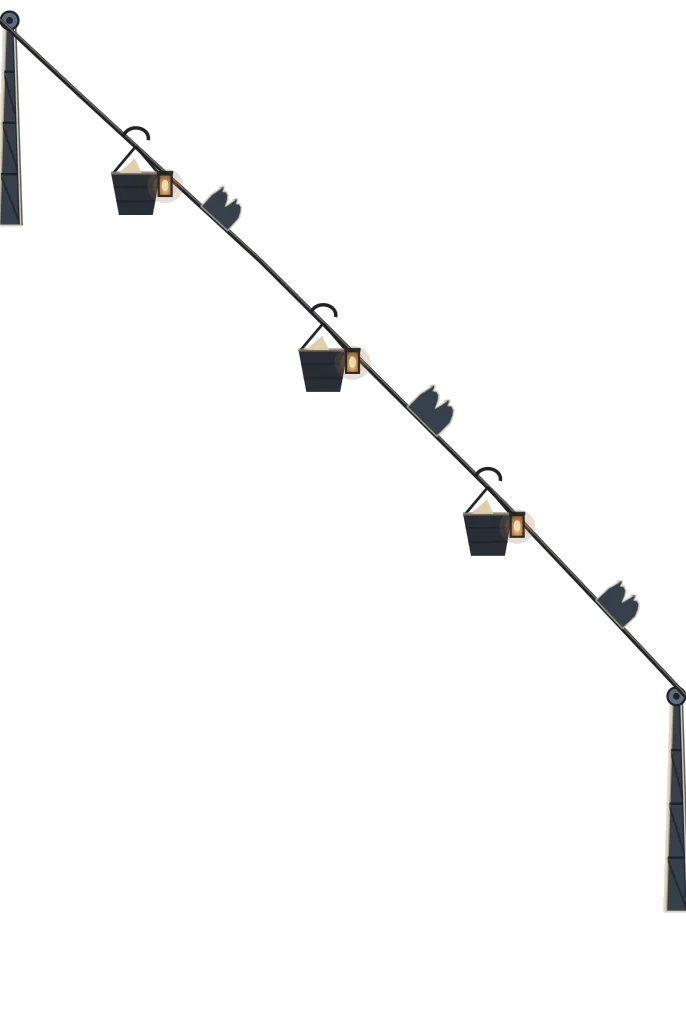
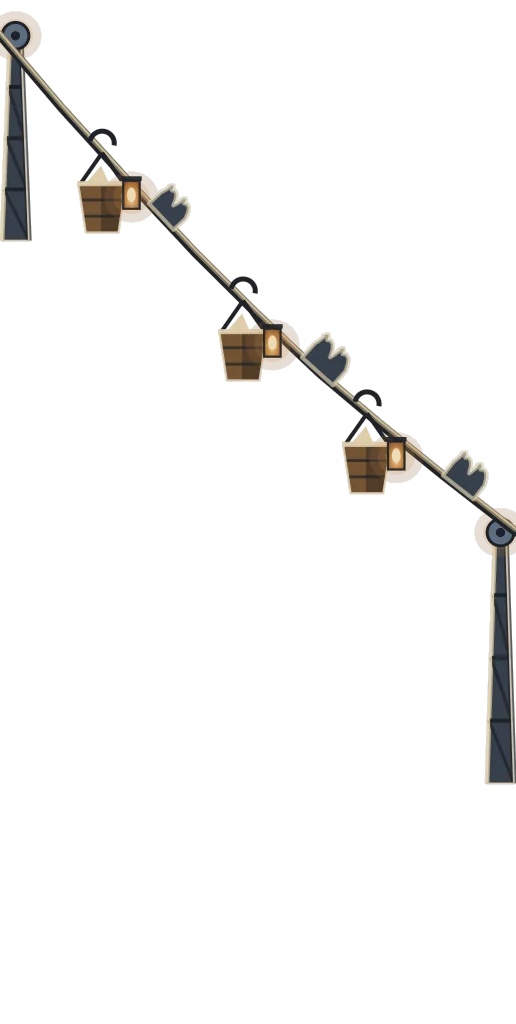
feat(labs/storybook): repaint the dispatch line and the roosts at the visibility-derived sizes
The board capture re-derived the right page around whether the cable can be
SEEN, and the two pieces it moved are now authored to the sub-rects the mesh
actually samples. The tower and the reader's basket are untouched — byte
identical bakes.

ch3-dispatch-line 686x1024 -> 516x1024. Same sheet, ~96% cut away, but every
weight is now quoted as a FRACTION OF THE PANEL rather than in source px,
because the panel projects into roughly 139x253 screen px and r4a's 4.6px rope
landed there at 1.2 screen px and read as a scratch. The rope is a dark core
under a LIT strand (on a night page the ink core is invisible and the highlight
is the whole read), the masts and their pulleys are wide enough to end the wire
on something, and the baskets and their lanterns are up ~30% so the three lit
panniers are legible at the reading camera. The new 9-node polyline is the
content.ts one, so the painted wire and the wire the reader's basket rides stay
one curve.

ch3-terrace 705x1024 -> 1024x991 — a re-proportion, not a resize: the roosts had
to come DOWN so the cable could fly over them, and the same numbers widened the
radial extent past the chain. A low sprawl is what this piece was always
described as; the r4a sheet made a ziggurat of it because it was taller than it
was wide.

And it printed a spreadsheet: every house the same frontage, every bay the same
pitch, nearly every cell lit. Three seeded moves fix that. Houses and their
[…]

Changed region(s): [[0.0, 0.0, 1.0, 0.9062]]

diff --git a/docs/superpowers/art-call-sheet.md b/docs/superpowers/art-call-sheet.md
@@ -269,9 +269,9 @@ principle) before any of these land.
 | `ch3-keep-winch` | `ch3-keep-winch-iris` | One raven-shutter blade (repeats around the loft rim) — slate shutter, amber roost-glow behind | ≈0.5:1 | STAND | placeholder |
 | `ch3-keep-winch` | `ch3-keep-winch-counterweight` | Slate counterweight block on a cable, dropping down the keep flank | ≈1:1 | STAND | placeholder |
 | `ch3-tower` | `ch3-tower` | THE CROOKED COLOSSUS — ONE continuous portrait painting of a 4-storey crooked rookery tower on the LEFT page, sliced by the mesh into per-storey v-bands AND per-storey u sub-ranges (the trapezoid mapping). UNEVEN storeys: tall buttressed foot (3 monumental blazing gate arches), squat gantry belt kicked outboard (jutting timber platforms with lamps), tall belfry storey pulled back inboard (4-bay arcade), short leaning crown (dense dovecote ranks under a crenellated skyline with two glazed lantern posts). Die-cut: crown skyline, a linked raven rank on the parapet, ravens wheeling in the sky it leaves, and the GANTRY ARM + first stretch of dispatch cable leaving toward the gutter. u = 0 is the inboard (gutter) edge and the lit flank; near-black slate stone, blazing amber portals, hairline raw-paper rim | 295:1024 ≈ 0.288:1 (radial extent 0.301 : chain 1.045) | STAGED CHAIN (trapezoid, merged mesh, v-banded per storey) | **art** (procedural) |
-| `ch3-dispatch-line` | `ch3-dispatch-line` | THE DIE-CUT CABLE PANEL — a sheet that has to read as a WIRE IN THE AIR, so ~97% of its alpha is cut away. Carries ONLY: the sagging cable polyline (the same 9 (u,v) nodes content.ts hands the solver), a trussed die-cut mast + pulley at each end, three hanging wicker letter-baskets with lit amber lanterns at arc s = 0.20/0.47/0.72, and three short raven ranks rotated onto the wire's own slope. Renders at alphaTest 0.1 over a black page, so every glow is a BOUNDED stepped bloom (a soft halo prints as a grey disc) and the wire ravens are slate, not ink | 686:1024 ≈ 0.670:1 (w 0.315 : chain 0.47) | STAGED CHAIN (2 stages, die-cut alpha; v split at 0.5745) | **art** (procedural) |
+| `ch3-dispatch-line` | `ch3-dispatch-line` | THE DIE-CUT CABLE PANEL — a sheet that has to read as a WIRE IN THE AIR, so ~97% of its alpha is cut away. Carries ONLY: the sagging cable polyline (the same 9 (u,v) nodes content.ts hands the solver), a trussed die-cut mast + pulley at each end, three hanging wicker letter-baskets with lit amber lanterns at arc s = 0.20/0.47/0.72, and three short raven ranks rotated onto the wire's own slope. Renders at alphaTest 0.1 over a black page, so every glow is a BOUNDED stepped bloom (a soft halo prints as a grey disc) and the wire ravens are slate, not ink. ROUND 4b: taller panel, shallower sag (v 0.965→0.48) so the wire clears the roofline over its whole run, and every weight quoted as a FRACTION of the panel — the board capture projects this sheet into ~139x253 screen px, where r4a's 4.6px rope landed at 1.2 screen px and read as a scratch | 516:1024 ≈ 0.504:1 (w 0.315 : chain 0.625) | STAGED CHAIN (2 stages, die-cut alpha; v split at 0.5760) | **art** (procedural) |
 | `ch3-dispatch-line` | `ch3-dispatch-line-basket` | THE READER'S BASKET — the in-plane rider pushed down the wire (drive channel `~send`, release HOLDS). The quad hangs it BELOW the cable, so the hook and yoke sit at the very TOP edge of the image and the pannier fills the rest: warm brown wicker (the chapter's one basketwork material), two cream envelopes poking out, a lit lantern slung off the yoke | 1:1 square, drawn to fill the cell | RIDER (in-plane quad) | **art** (procedural) |
-| `ch3-terrace` | `ch3-terrace` | THE TERRACED ROOSTS — the RIGHT page's answer to a colossus and the piece that kills the mirror by being its OPPOSITE: a low, wide, five-storey sprawl of roof after roof stepping back. Grammar is strictly horizontal — party pilasters dividing each terrace into houses, TWO long ranks of small square-headed warm roost windows per storey (never arches), dormer roost-boxes on every roof plane, deep eave shadow + lit ridge on every fold, ravens landing on the ridge below, a lamplit road with lantern posts entering at the foot (inherited from the retired yard wall), and a LOW landing mast at the outboard end where the cable comes down. Lit chance falls as it climbs — that is the aerial recession | 705:1024 ≈ 0.689:1 (radial extent 0.31 : chain 0.45) | STAGED CHAIN (trapezoid, merged mesh, v-banded per storey) | **art** (procedural) |
+| `ch3-terrace` | `ch3-terrace` | THE TERRACED ROOSTS — the RIGHT page's answer to a colossus and the piece that kills the mirror by being its OPPOSITE: a low, wide, five-storey sprawl of roof after roof stepping back. Grammar is strictly horizontal — party pilasters dividing each terrace into houses, TWO long ranks of small square-headed warm roost windows per storey (never arches), dormer roost-boxes on every roof plane, deep eave shadow + lit ridge on every fold, ravens landing on the ridge below, a lamplit road with lantern posts entering at the foot (inherited from the retired yard wall), and a LOW landing mast at the outboard end where the cable comes down. Lit chance falls as it climbs — that is the aerial recession. ROUND 4b re-proportions it WIDER THAN TALL (the chain shortened so the cable could fly over it, which is what a "low sprawl" needed all along) and breaks the r4a grid: houses and their window bays are UNEVEN seeded splits each sitting a little high or low on its own string course, two storeys carry a GABLE END with a hoist beam and a lit loft door, two carry a JETTIED upper floor on corbels, chimney stacks stand off every ridge, and a house may be SHUTTERED outright so dark cells clump among the warm ones | 1024:991 ≈ 1.033:1 (radial extent 0.31 : chain 0.30) | STAGED CHAIN (trapezoid, merged mesh, v-banded per storey) | **art** (procedural) |
 | `ch3-fringe` | `ch3-fringe` | Fore-edge dispatch-yard wall — the rookery's outer yard wall in slate, a raven rank along its top, and the ROAD NOTCH where the post-road passes through | ≈7.1:1 low strip | FACE | procedural |
 | `ch3-dispatch` | `ch3-dispatch-dial` | The reader-spun SORTING DESK dial (volvelle, riveted flat into the right-page yard, mirroring the winch) — a brass wheel of 8 sectors: raven sigils at staggered headings, route glyphs, a tally band | 1:1 square (disc, radius 0.11 → canvas 0.22×0.22) | DISC | procedural |
 | `ch3-dispatch` | `ch3-dispatch-card` | The static WINDOW CARD over the dial — the sorting-office faceplate: pigeonhole shelves around 3 die-cut windows (top + two flanks at 45°) and the celebrated brass tag "① SPIN — ROUTE THE RAVENS" with a pointing manicule; the sectors show through the cut windows. RIGHT-PAGE V-FLIP applies — author in screen space | 1:1 square (disc, matches the dial) | DISC (windowed) | procedural |
